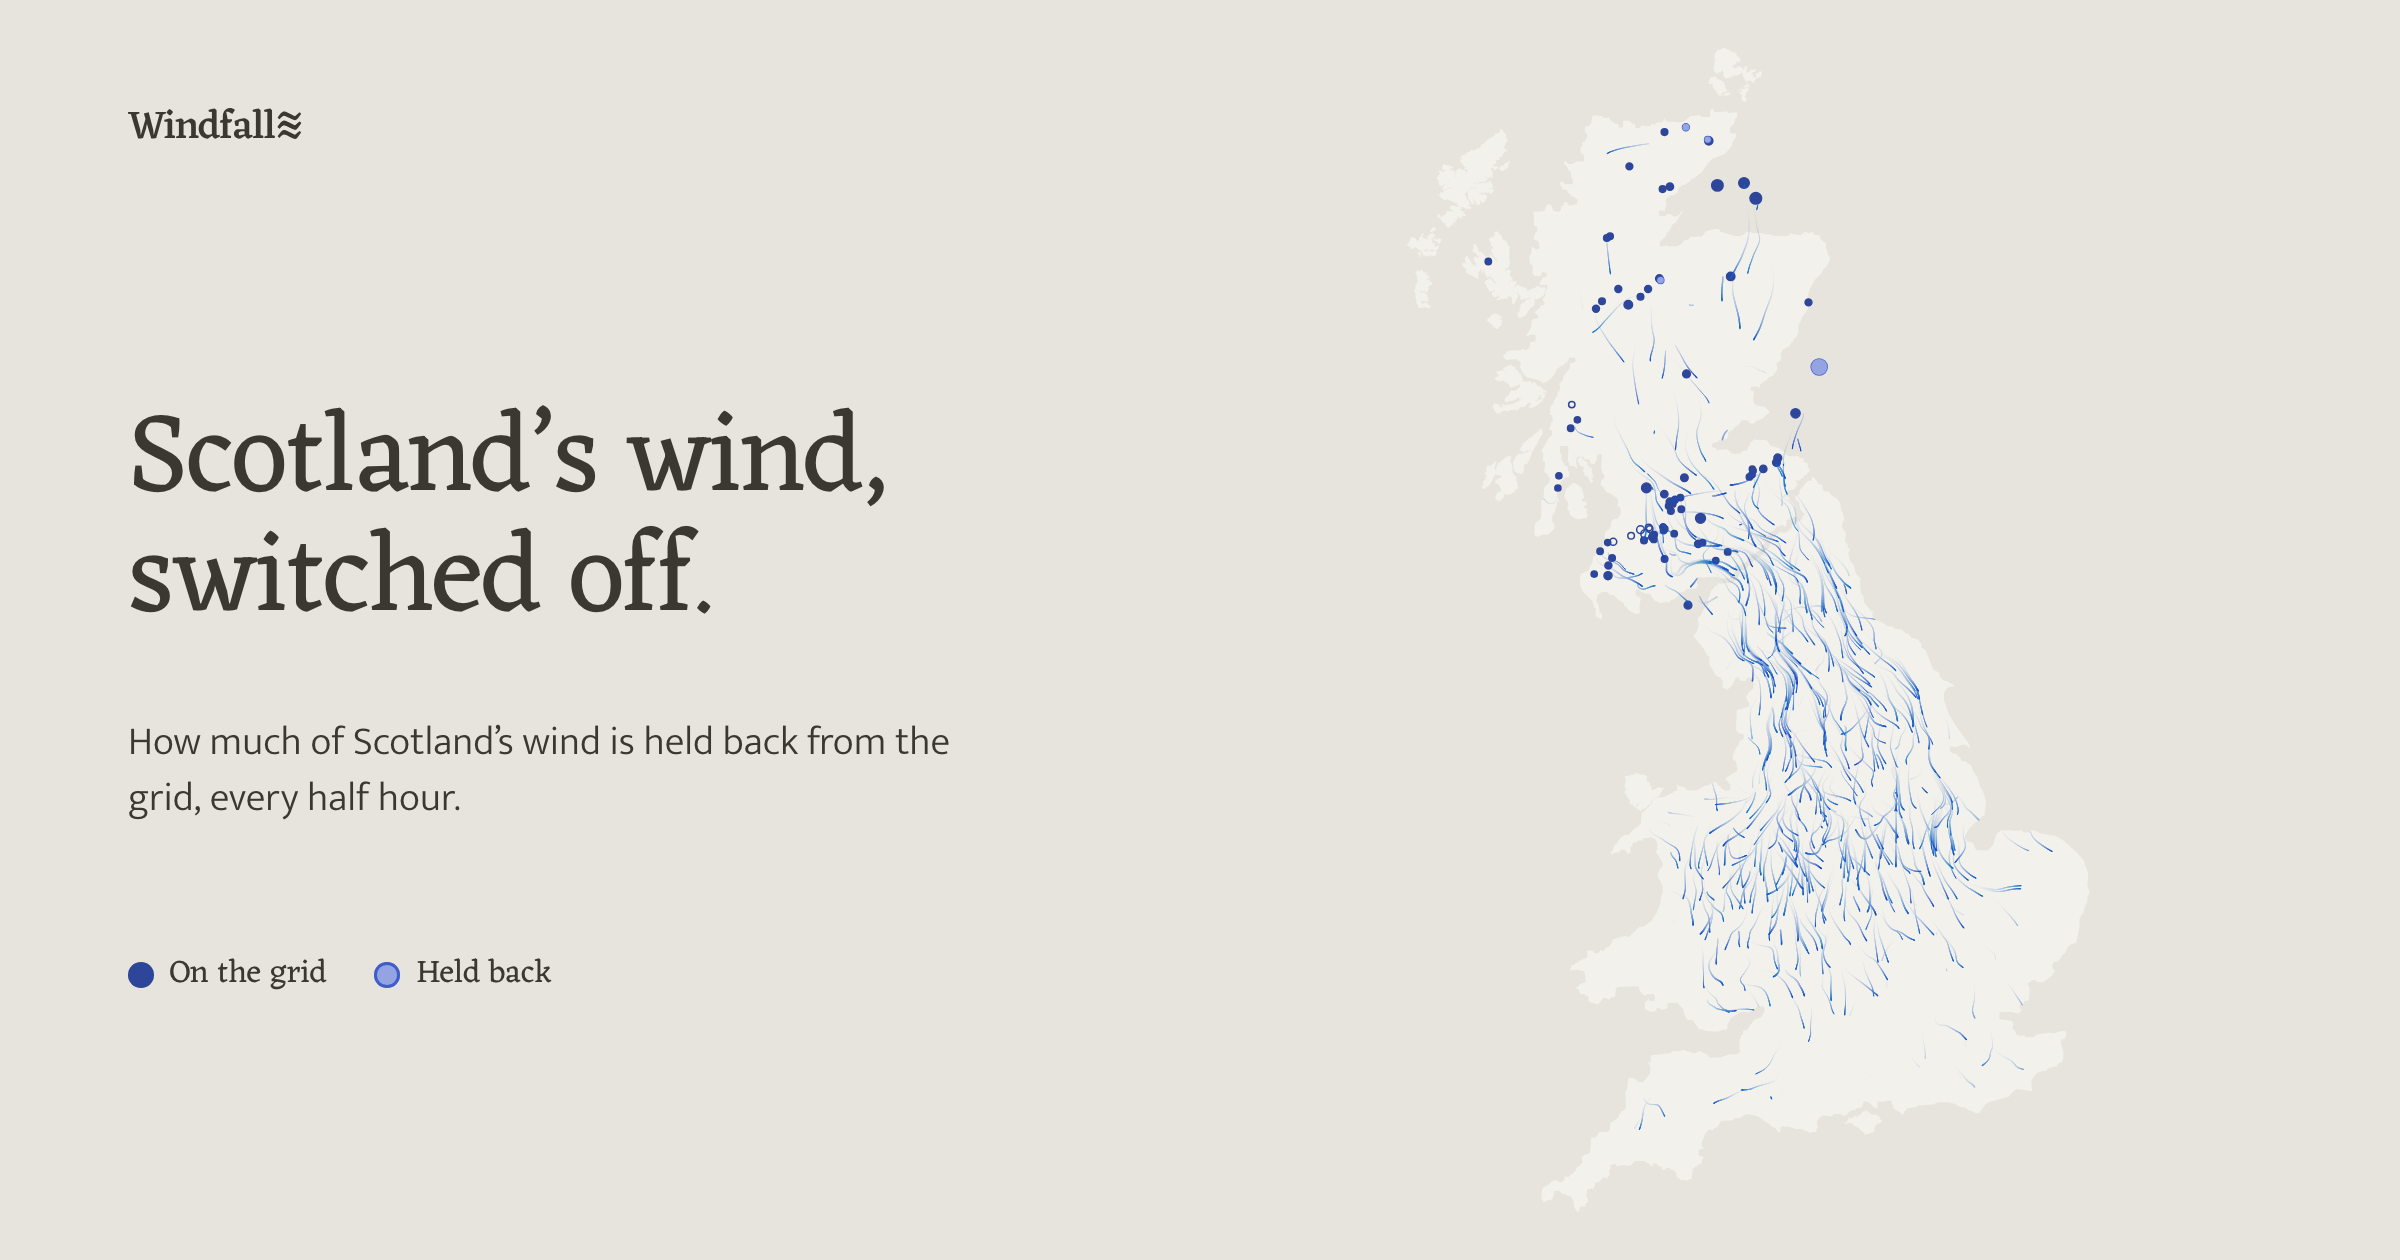
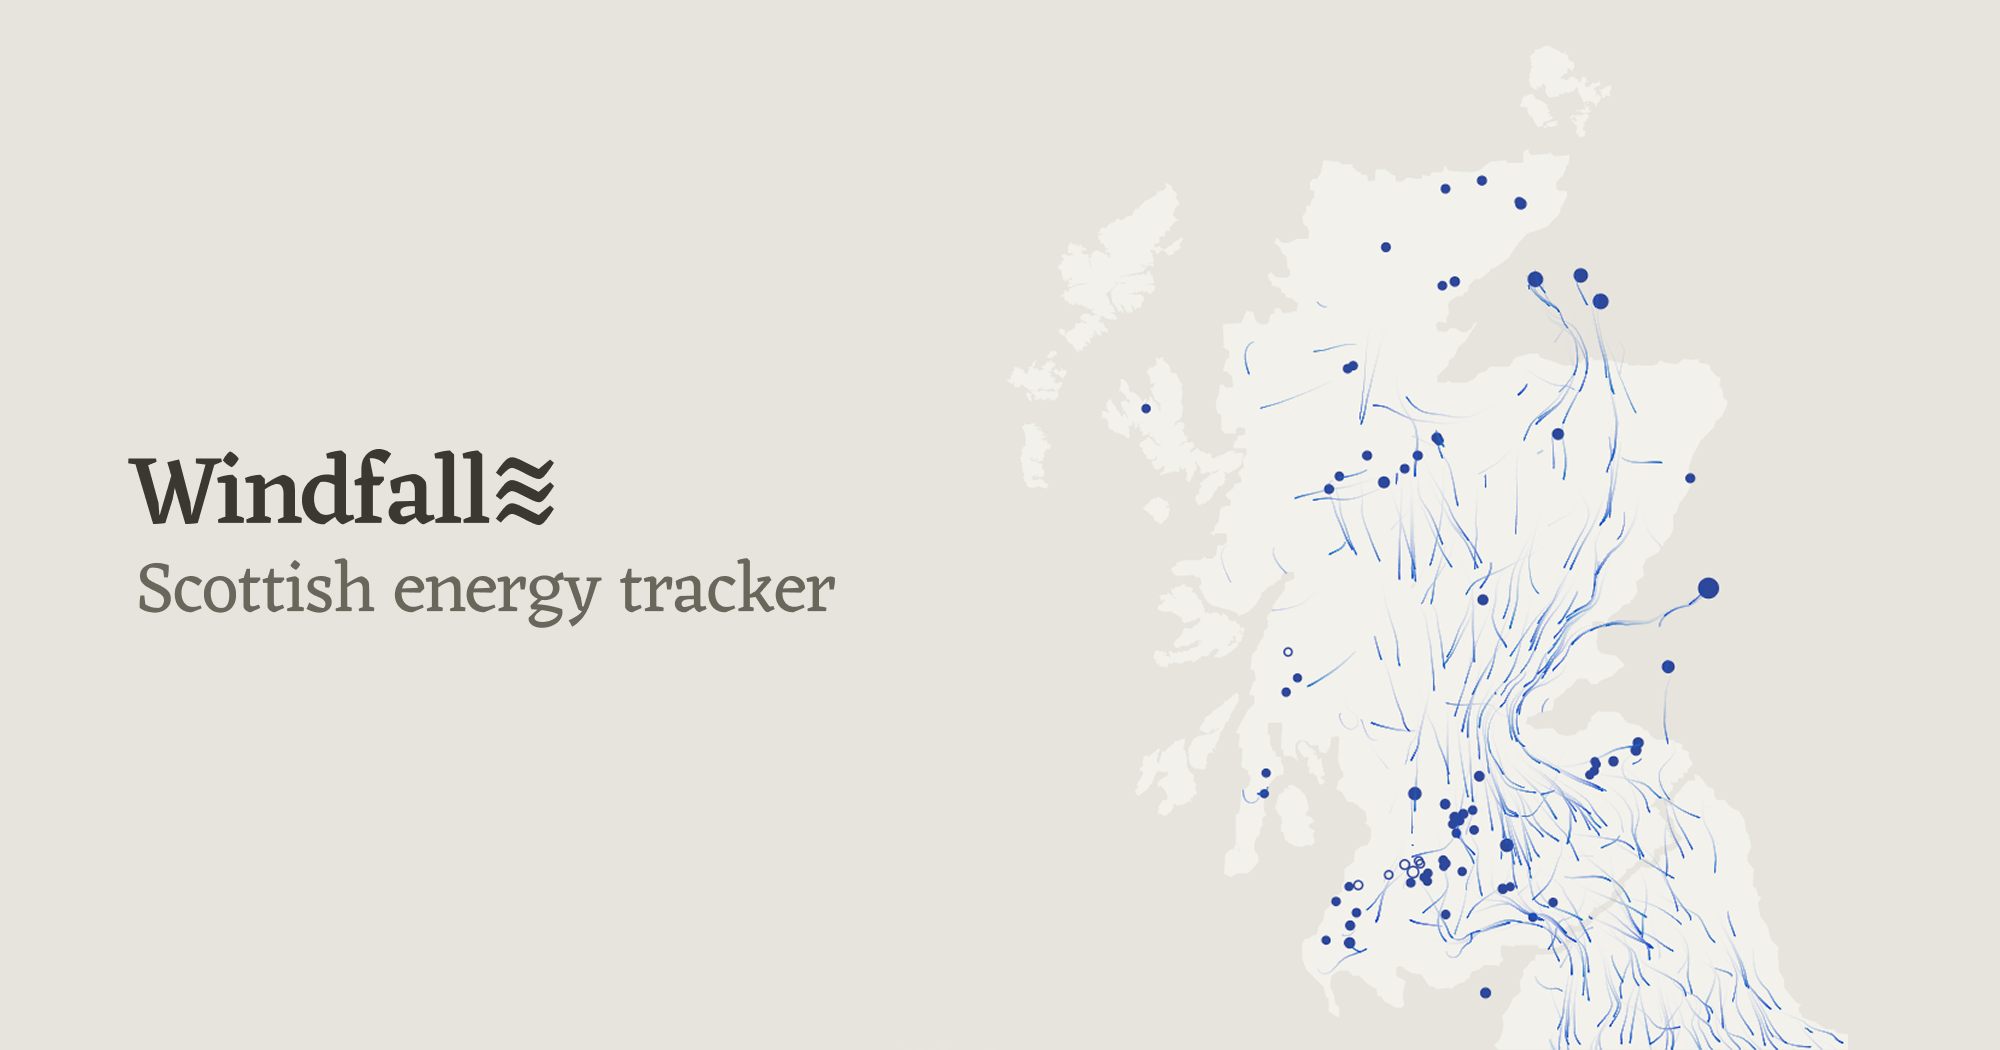
site: social image is Owen's design — "Windfall, Scottish energy tracker"
The wordmark and "Scottish energy tracker" over the map cropped to
Scotland, replacing the script-rendered version (build-og.ts removed so it
can't overwrite it). og:image dimensions and alt text updated; DECISIONS
043 records the change.

diff --git a/index.html b/index.html
@@ -22,11 +22,11 @@
       content="What Britain's grid is doing right now, and how much Scottish wind is being switched off while it happens."
     />
     <meta property="og:image" content="https://windfall.scot/og.png" />
-    <meta property="og:image:width" content="2400" />
-    <meta property="og:image:height" content="1260" />
+    <meta property="og:image:width" content="2000" />
+    <meta property="og:image:height" content="1050" />
     <meta
       property="og:image:alt"
-      content="Windfall — Scotland's wind, switched off. A map of Great Britain with wind flowing south from Scotland's wind farms, each marked on the grid or held back."
+      content="Windfall, Scottish energy tracker. A map of Scotland with its wind farms marked and wind flowing south from them."
     />
 
     <meta name="twitter:card" content="summary_large_image" />
@@ -38,7 +38,7 @@
     <meta name="twitter:image" content="https://windfall.scot/og.png" />
     <meta
       name="twitter:image:alt"
-      content="Windfall — Scotland's wind, switched off. A map of Great Britain with wind flowing south from Scotland's wind farms, each marked on the grid or held back."
+      content="Windfall, Scottish energy tracker. A map of Scotland with its wind farms marked and wind flowing south from them."
     />
   </head>
   <body>

diff --git a/DECISIONS.md b/DECISIONS.md
@@ -1483,5 +1483,4 @@ This closes 4c.5, and with it the whole of Windfall_Map_Spec_4c.md.
 
 **Pending, by Owen's call:** the AI narration (`api/narration.ts` and its client fetch), which nothing on the site now calls, is archived once the new site is live, per 026's plan.
 
-
-**Social image replaced** (`public/og.png`, `scripts/build-og.ts`): rendered from the page itself at 1200×630, 2×, so type, palette, markers and flow are what a visitor sees. Evergreen by design: the site's title and a line on what it shows ("How much of Scotland's wind is held back from the grid, every half hour"), a two-dot key, and the map from the `curtailing` fixture with the flow developed. No figures, because the live headline would be stale within the half hour of a share.
+**Social image replaced** (`public/og.png`, 2000×1050, Owen's design): "Windfall≋" large, "Scottish energy tracker" beneath, and the map cropped to Scotland with its farms and the flow leaving them. Brand-led rather than a sentence, because the wordmark reads instantly in a feed and the farms are where the story starts; "energy" rather than "wind" because the brand already says wind and the page tracks the grid mix too. No figures, which would be stale within the half hour of a share. A first version rendered from the page by script (title, sentence, key, all of Great Britain) was set aside for it.
